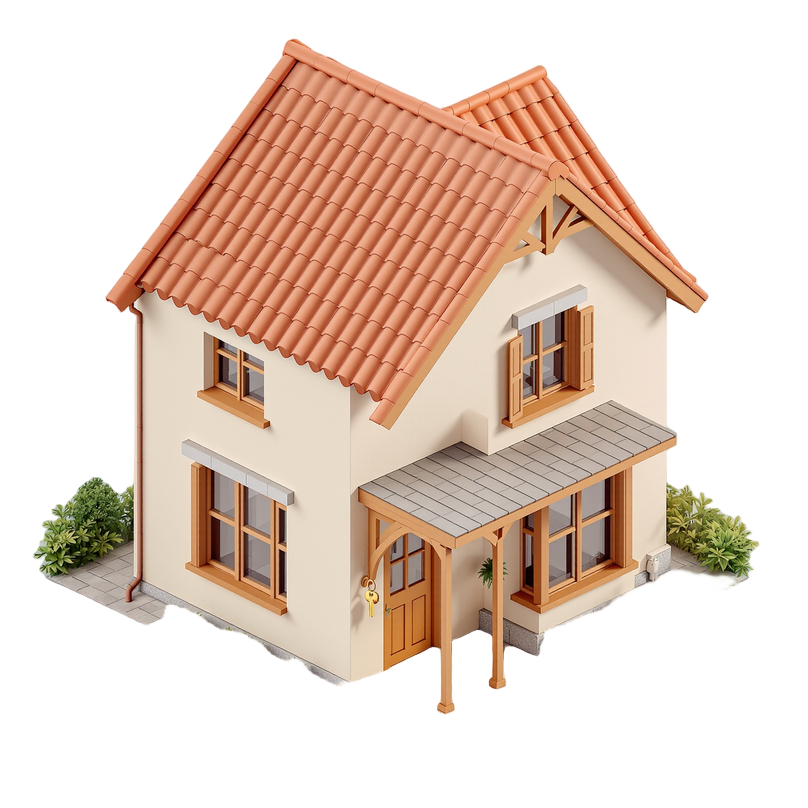
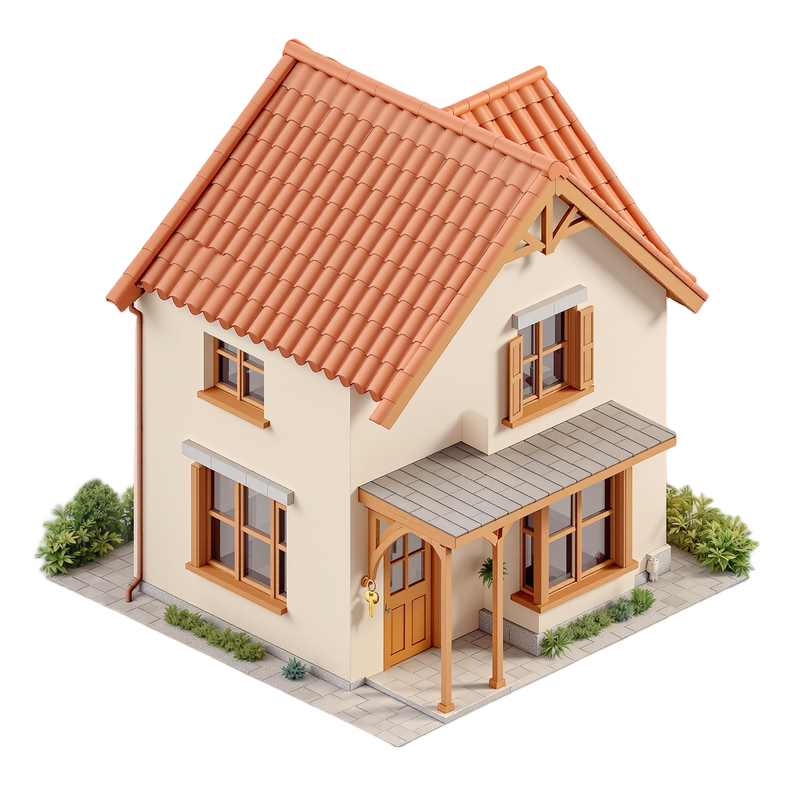
Attach porch, posts and plaque to the house; feathered Welcome; empty margins (r6)
- Master matte re-cut from the render's own alpha with birefnet
  'General Use (Dynamic)', which keeps the paved plinth: posts, porch and
  planters stand on ground (silhouette is one connected component).
  Stage constants re-measured (base 0.925, walls 0.80, eave 0.40);
  linework IoU 0.992, frame 0.959 vs the master.
- Frame mask uses only the feathered construction edge (no rectangular
  TopCut), so Welcome has no hard build line.
- 500 plaque stands on the plinth's front edge.
- Empty-state hero no longer overflows the page margin (16/16 pt);
  its CTA uses the violet action token.

diff --git a/DesignSandbox/BlueprintScreens.swift b/DesignSandbox/BlueprintScreens.swift
@@ -206,14 +206,16 @@ struct BlueprintMilestone: View {
                     .padding(.bottom, 26)       // the roof's drop path (34 pt) stays clear of the title
                     .zIndex(1)
 
-                ZStack(alignment: .bottomTrailing) {
+                ZStack(alignment: .topLeading) {
                     BlueprintHouse(hours: 500, roofDrop: roofDrop, roofFill: roofFill, showScale: false)
                         .frame(width: 290, height: 290)
                     Plaque(number: 500)
-                        .scaleEffect(plaque ? 1 : 0.6)
+                        .scaleEffect(plaque ? 1 : 0.6, anchor: .bottom)
                         .opacity(plaque ? 1 : 0)
-                        .offset(x: 6, y: -8)
+                        .shadow(color: .black.opacity(0.35), radius: 4, y: 3)
+                        .position(x: 290 * 0.80, y: 290 * 0.80)     // standing on the plinth's front-right edge
                 }
+                .frame(width: 290, height: 290)
                 .padding(.top, 8)
 
                 Text("500 confirmed hours in 2026")
@@ -451,11 +453,11 @@ struct BlueprintEmptyHero: View {
                     Text("An empty lot.").font(.headline).foregroundStyle(.white)
                     Text("Add a property and every hour you confirm goes up on it.")
                         .font(.footnote).foregroundStyle(OnHero.secondary)
-                        .frame(width: 150, alignment: .leading)
+                        .fixedSize(horizontal: false, vertical: true)
                 }
                 .padding(20)
-                Spacer(minLength: 0)
-                EmptyLot().frame(width: 188, height: 188).padding(.trailing, 16).padding(.bottom, 16)
+                .frame(maxWidth: .infinity, alignment: .leading)
+                EmptyLot().frame(width: 164, height: 164).padding(.trailing, 16).padding(.bottom, 16)
             }
         }
         .frame(height: 300)

diff --git a/DesignSandbox/BlueprintHouse.swift b/DesignSandbox/BlueprintHouse.swift
@@ -14,9 +14,9 @@ struct BlueprintHouse: View {
 
     /// Rendered layers (creative-r3 assets, registered + matted) when present; vector fallback otherwise.
     static let useArt = UIImage(named: "bp-house-built") != nil
-    static var base: CGFloat { useArt ? 0.885 : 0.90 }
-    static var foundationTop: CGFloat { useArt ? 0.83 : 0.84 }
-    static var eave: CGFloat { useArt ? 0.47 : 0.42 }
+    static var base: CGFloat { useArt ? 0.925 : 0.90 }
+    static var foundationTop: CGFloat { useArt ? 0.80 : 0.84 }
+    static var eave: CGFloat { useArt ? 0.40 : 0.42 }
     static var apex: CGFloat { useArt ? 0.05 : 0.14 }
 
     static func buildY(_ h: Double) -> CGFloat {
@@ -52,7 +52,6 @@ struct BlueprintHouse: View {
                 }
                 if hours > 100 && hours < 500 {
                     frame.mask(FeatherMask(y: max(BlueprintHouse.eave, by - 0.21), feather: 0.03))
-                        .mask(TopCut(y: BlueprintHouse.eave))
                 }
                 built.mask(FeatherMask(y: by, feather: 0.028))
                 if hours >= 500 {

diff --git a/DesignSandbox/TodayView.swift b/DesignSandbox/TodayView.swift
@@ -458,10 +458,10 @@ struct EmptyStateView: View {
                 Button {} label: {
                     Label(action, systemImage: actionSymbol ?? "plus")
                         .font(.subheadline.weight(.semibold))
-                        .foregroundStyle(.primary)
+                        .foregroundStyle(LHConcept.current == .none ? AnyShapeStyle(.primary) : AnyShapeStyle(LH.onAction))
                         .padding(.horizontal, 18)
                         .frame(height: 44)
-                        .background(LH.card, in: Capsule())
+                        .background(LHConcept.current == .none ? LH.card : LH.action, in: Capsule())
                         .shadow(color: .black.opacity(scheme == .dark ? 0 : 0.08), radius: 8, y: 3)
                 }
                 .buttonStyle(Pressable())

diff --git a/scripts/design-sandbox/measure_r6.py b/scripts/design-sandbox/measure_r6.py
@@ -1,0 +1,38 @@
+"""r6 checks: empty-state card inset; house silhouette connectivity (no severed posts/plaque) in the
+milestone frame and the master art. usage: measure_r6.py <frames_dir> <art_dir>"""
+import sys
+import numpy as np
+from PIL import Image, ImageDraw
+
+D, ART = sys.argv[1], sys.argv[2]
+for ap in ['light', 'dark']:
+    im = Image.open(f'{D}/concept-empty-{ap}.png').convert('RGB')
+    W, H = im.size
+    y = int(H * 0.33)
+    xs = [x for x in range(W) if (lambda p: p[2] > 140 and p[0] < 70)(im.getpixel((x, y)))]
+    print(f'empty {ap}: card x {min(xs) / 3:.1f}–{max(xs) / 3:.1f} pt (inset L {min(xs) / 3:.1f}, R {(W - 1 - max(xs)) / 3:.1f})')
+
+
+def components(mask):
+    m = Image.fromarray((mask * 255).astype(np.uint8))
+    arr = np.asarray(m).copy()
+    count, sizes, v = 0, [], 1
+    h, w = arr.shape
+    lab = np.zeros_like(arr, dtype=np.int32)
+    for yy in range(h):
+        for xx in range(w):
+            if arr[yy, xx] and not lab[yy, xx]:
+                count += 1
+                stack = [(yy, xx)]; lab[yy, xx] = count; n = 0
+                while stack:
+                    cy, cx = stack.pop(); n += 1
+                    for ny, nx in ((cy + 1, cx), (cy - 1, cx), (cy, cx + 1), (cy, cx - 1)):
+                        if 0 <= ny < h and 0 <= nx < w and arr[ny, nx] and not lab[ny, nx]:
+                            lab[ny, nx] = count; stack.append((ny, nx))
+                sizes.append(n)
+    return sorted(sizes, reverse=True)
+
+
+a = np.asarray(Image.open(f'{ART}/bp-house-built.png').convert('RGBA').resize((300, 300)))[..., 3] > 100
+s = components(a)
+print('master silhouette components (300px):', len(s), 'largest', s[:3], '-> pieces > 20px apart from body:', sum(1 for x in s[1:] if x > 20))
